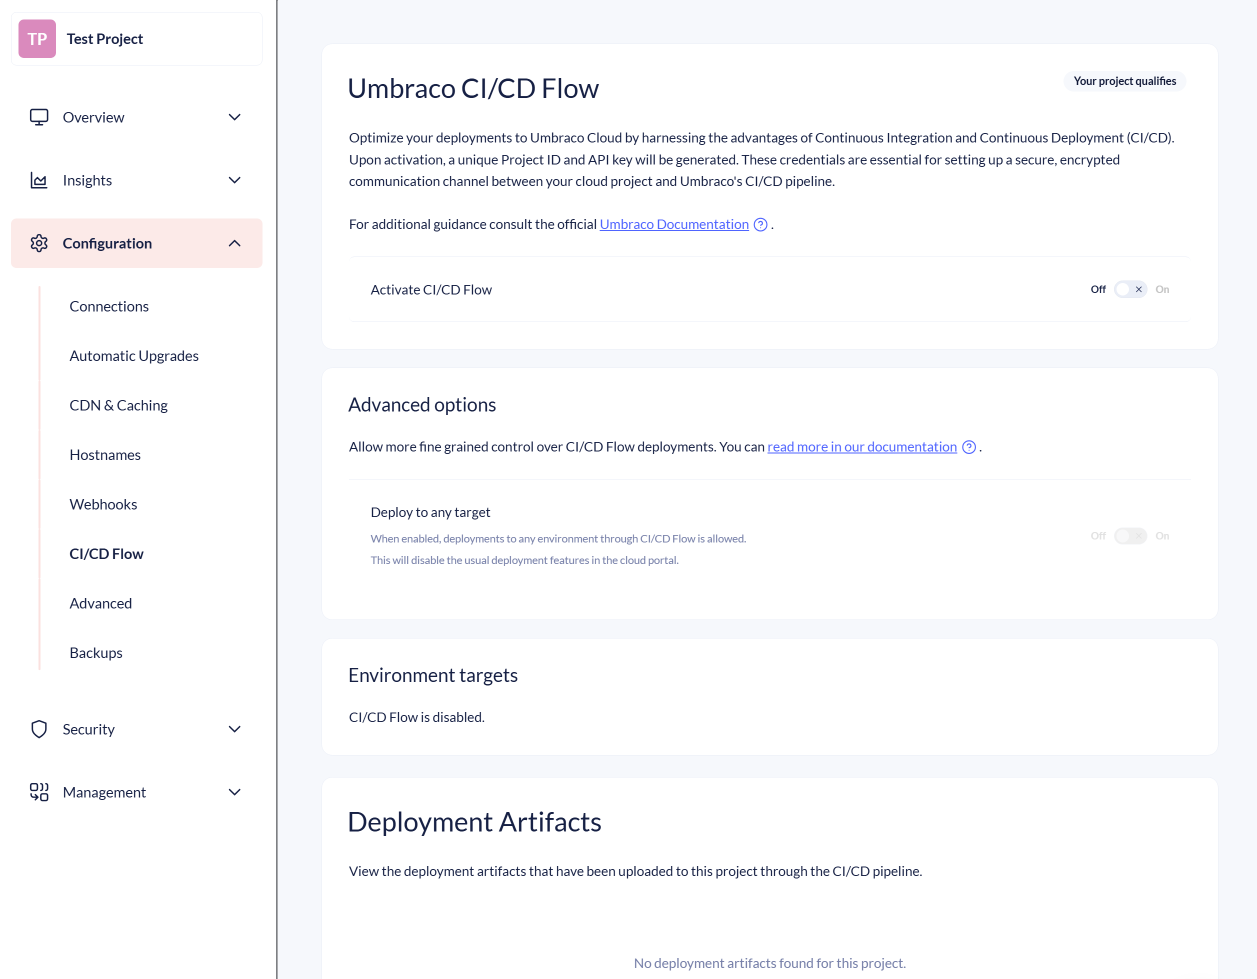
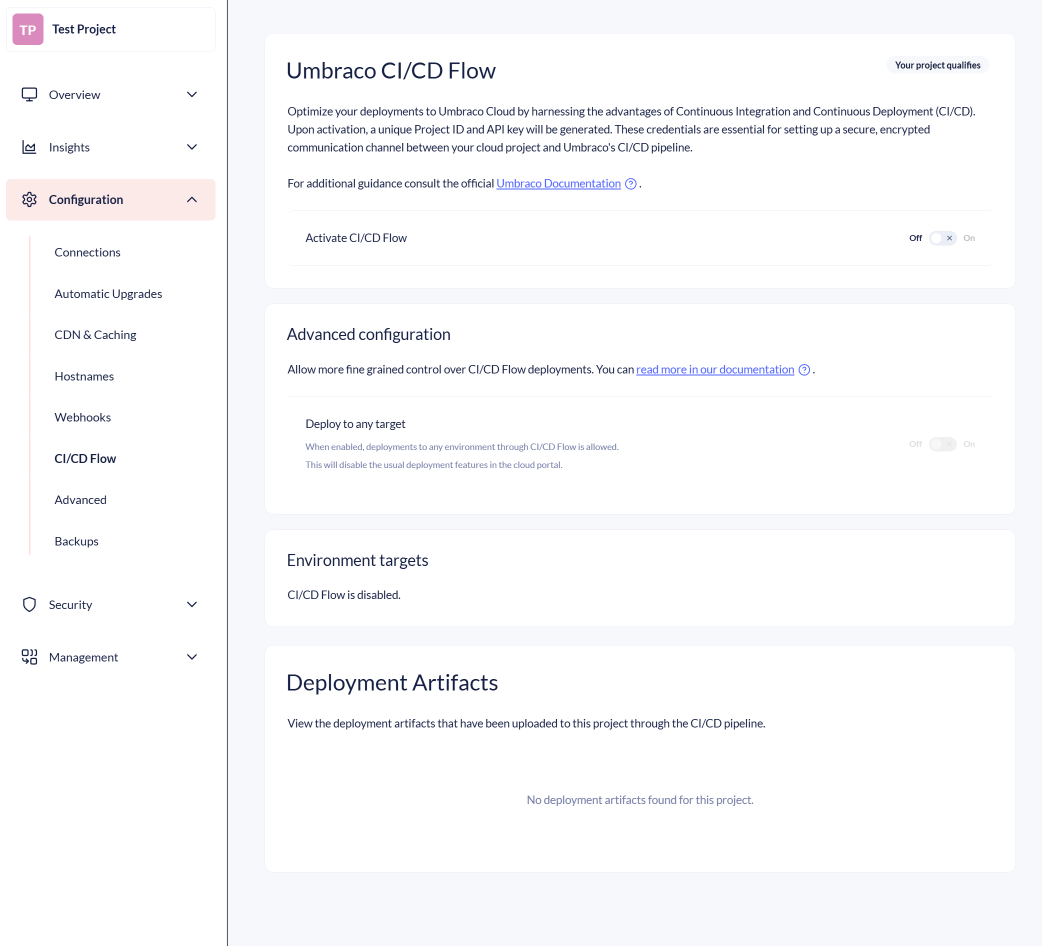
63325 More text + updated pictures

diff --git a/umbraco-cloud/build-and-customize-your-solution/handle-deployments-and-environments/umbraco-cicd/samplecicdpipeline/README.md b/umbraco-cloud/build-and-customize-your-solution/handle-deployments-and-environments/umbraco-cicd/samplecicdpipeline/README.md
@@ -48,12 +48,12 @@ In this guide, deployments target the left-most environment in your Umbraco Clou
 To get started with API interactions, you'll need to obtain your Project ID and API key. If you haven't already enabled the CI/CD feature, follow these steps:
 
 1. Navigate to the [Umbraco Cloud Portal](https://www.s1.umbraco.io/projects) and select your project.
-2. Go to `Configuration` -> `CI/CD Flow`. This is where you can generate API keys and find your Project ID.
+2. Go to `Configuration` -> `CI/CD Flow`. 
 3. Toggle "Activate CI/CD Flow" to enable the feature.
 
 <figure><img src="../../../../.gitbook/assets/cicd-project-api-keys.png" alt=""><figcaption><p>Enabling Umbraco CI/CD Flow.</p></figcaption></figure>
 
-The box will expand to show your Project Id and a Primary API key and a Secondary API key. You can use either key to interact with the APIs.
+The box will expand to show your Project Id and two API keys. You can use either key to interact with the APIs.
 
 {% hint style="warning" %}
 The API keys are tied to the specific project for which it is generated. Ensure to keep the one you use secure in Azure or GitHub. It will be used for all subsequent API interactions related to that project.
@@ -73,37 +73,37 @@ If the alias is greyed out and without a check mark, it is currently not a valid
 
 By default, flexible environments and the left-most environment are considered valid targets.
 
-You can enable all environments to be valid targets by enabling the "Deploy to any target" toggle above in the "Advanced options" section. 
+You can enable all environments to be valid targets by enabling the "Deploy to any target" toggle in the "Advanced configuration" section. 
 
 If you are using the old CI/CD samples that target V1 endpoint, you can only target the left-most environment.
 
 {% endhint %}
 
-## Advanced options
+## Advanced configuration
 
-With "Advanced options" we are expanding the capabilities of CI/CD flow.
+With "Advanced configuration" we are expanding the capabilities of CI/CD flow.
 
 {% hint style="warning" %}
 
 This setting is for advanced users.
 
-Enabling "Deploy to any target" will drastically change the deployment workflow between environments in the Cloud Portal for the affected project.
+If you are setting up CI/CD Flow for the first time, you should skip ahead to the section about ["Sample pipelines"](#sample-pipelines).
 
-If you are setting up CI/CD Flow for the first time, you should skip ahead to [the next section](#sample-pipelines).
+Enabling "Deploy to any target" will drastically change the deployment workflow between environments in the Cloud Portal for the affected project.
 
 {% endhint %}
 
 ### Deploy to any target
 
-By default CI/CD flow only allows deployments to the left-most or the flexible environment. With the "Deployments to any target" toggle you now have control to enable CI/CD Flow deployments to all your environments.
+By default CI/CD flow only allows deployments to the left-most or the flexible environment. With the "Deploy to any target" toggle you now have control to enable CI/CD Flow deployments to all your environments. 
 
-<figure><img src="../../../../.gitbook/assets/cicd-advanced-options.png" alt=""><figcaption><p>"Umbraco CI/CD Flow - Advanced options" section showing the enabled "Deploy to any target".</p></figcaption></figure>
+<figure><img src="../../../../.gitbook/assets/cicd-advanced-configuration.png" alt=""><figcaption><p>"Umbraco CI/CD Flow - Advanced configuration" section showing the enabled "Deploy to any target".</p></figcaption></figure>
 
+When the setting is enabled, we will disable the ability to deploy between environment through the Cloud portal. All deployments should now be handled by you and your CI/CD setup.
 
+The environments overview on your project will no longer show: 
 
-When the setting is enabled the environments overview will change on your project. This will also affect how you do deployments between environments because:
-
-- Pending changes indicator is removed; you will not be able to see how far ahead your environments is compared to the next.
+- Pending changes indicator; you will not be able to see how far ahead your environments is compared to the next.
 - Deploy button is removed; you will not be able to push changes forward by using the Cloud Portal UI.
 
 <figure><img src="../../../../.gitbook/assets/cicd-changed-environment-overview.png" alt=""><figcaption><p>Example of the updated environment overview.</p></figcaption></figure>
@@ -126,23 +126,15 @@ You are in control of deploying to all environments through your CI/CD setup.
 
 Se the [Advanced Setup: Deploy to multiple targets](./advanced-multiple-targets.md) article for an example of deploying to multiple targets.
 
-{% hint style="info" %}
+#### A note about disabling "Deploy to any target"
 
-Each CI/CD Flow deployment creates new unique commits on the receiving environments. 
+When you use CI/CD to deploy to the left-most environment and the Portal to deploy changes between environments, the environments are aligned. Following the left-to-right deployment flow they will eventually have the same commits. This connection and alignment between environment is utilized by the Portal to keeps track of Pending changes between environments.
 
-If you only use CI/CD to deploy to the left-most environment and use the Portal to deploy changes between environments, the environments are aligned and have the same commits.
-
-This is how the Cloud Portal keeps track of changes.
-
-This will make the environments git repositories diverge from each other   
+With "Deploy to any target" enabled the commits are no longer pushed between the environment in a way that keeps track. Each CI/CD Flow deployment creates new unique commit on the receiving environments. For example: if you deploy the same artifact to two different environment, this creates unique commits on each environment.
+ 
+The more you are using "Deploy to any any target", the more each environment's git repository will diverge. This diversion can become a problem if you decide to disable the feature again. In that case you need to be prepared to realign the environments which might be a time consuming task.
 
 Disabling "Deploy to any target" will change the UI back to Umbraco Clouds original environments overview. Bringing back Deploy-buttons and pending changes on the environments cards.
-
-Because of the "Deploy to any target" setting, the environments are not keeping track witch each other regarding changes as is the case when using the original 
-
-{% endhint %}
-
-
 
 ## Sample pipelines
 
